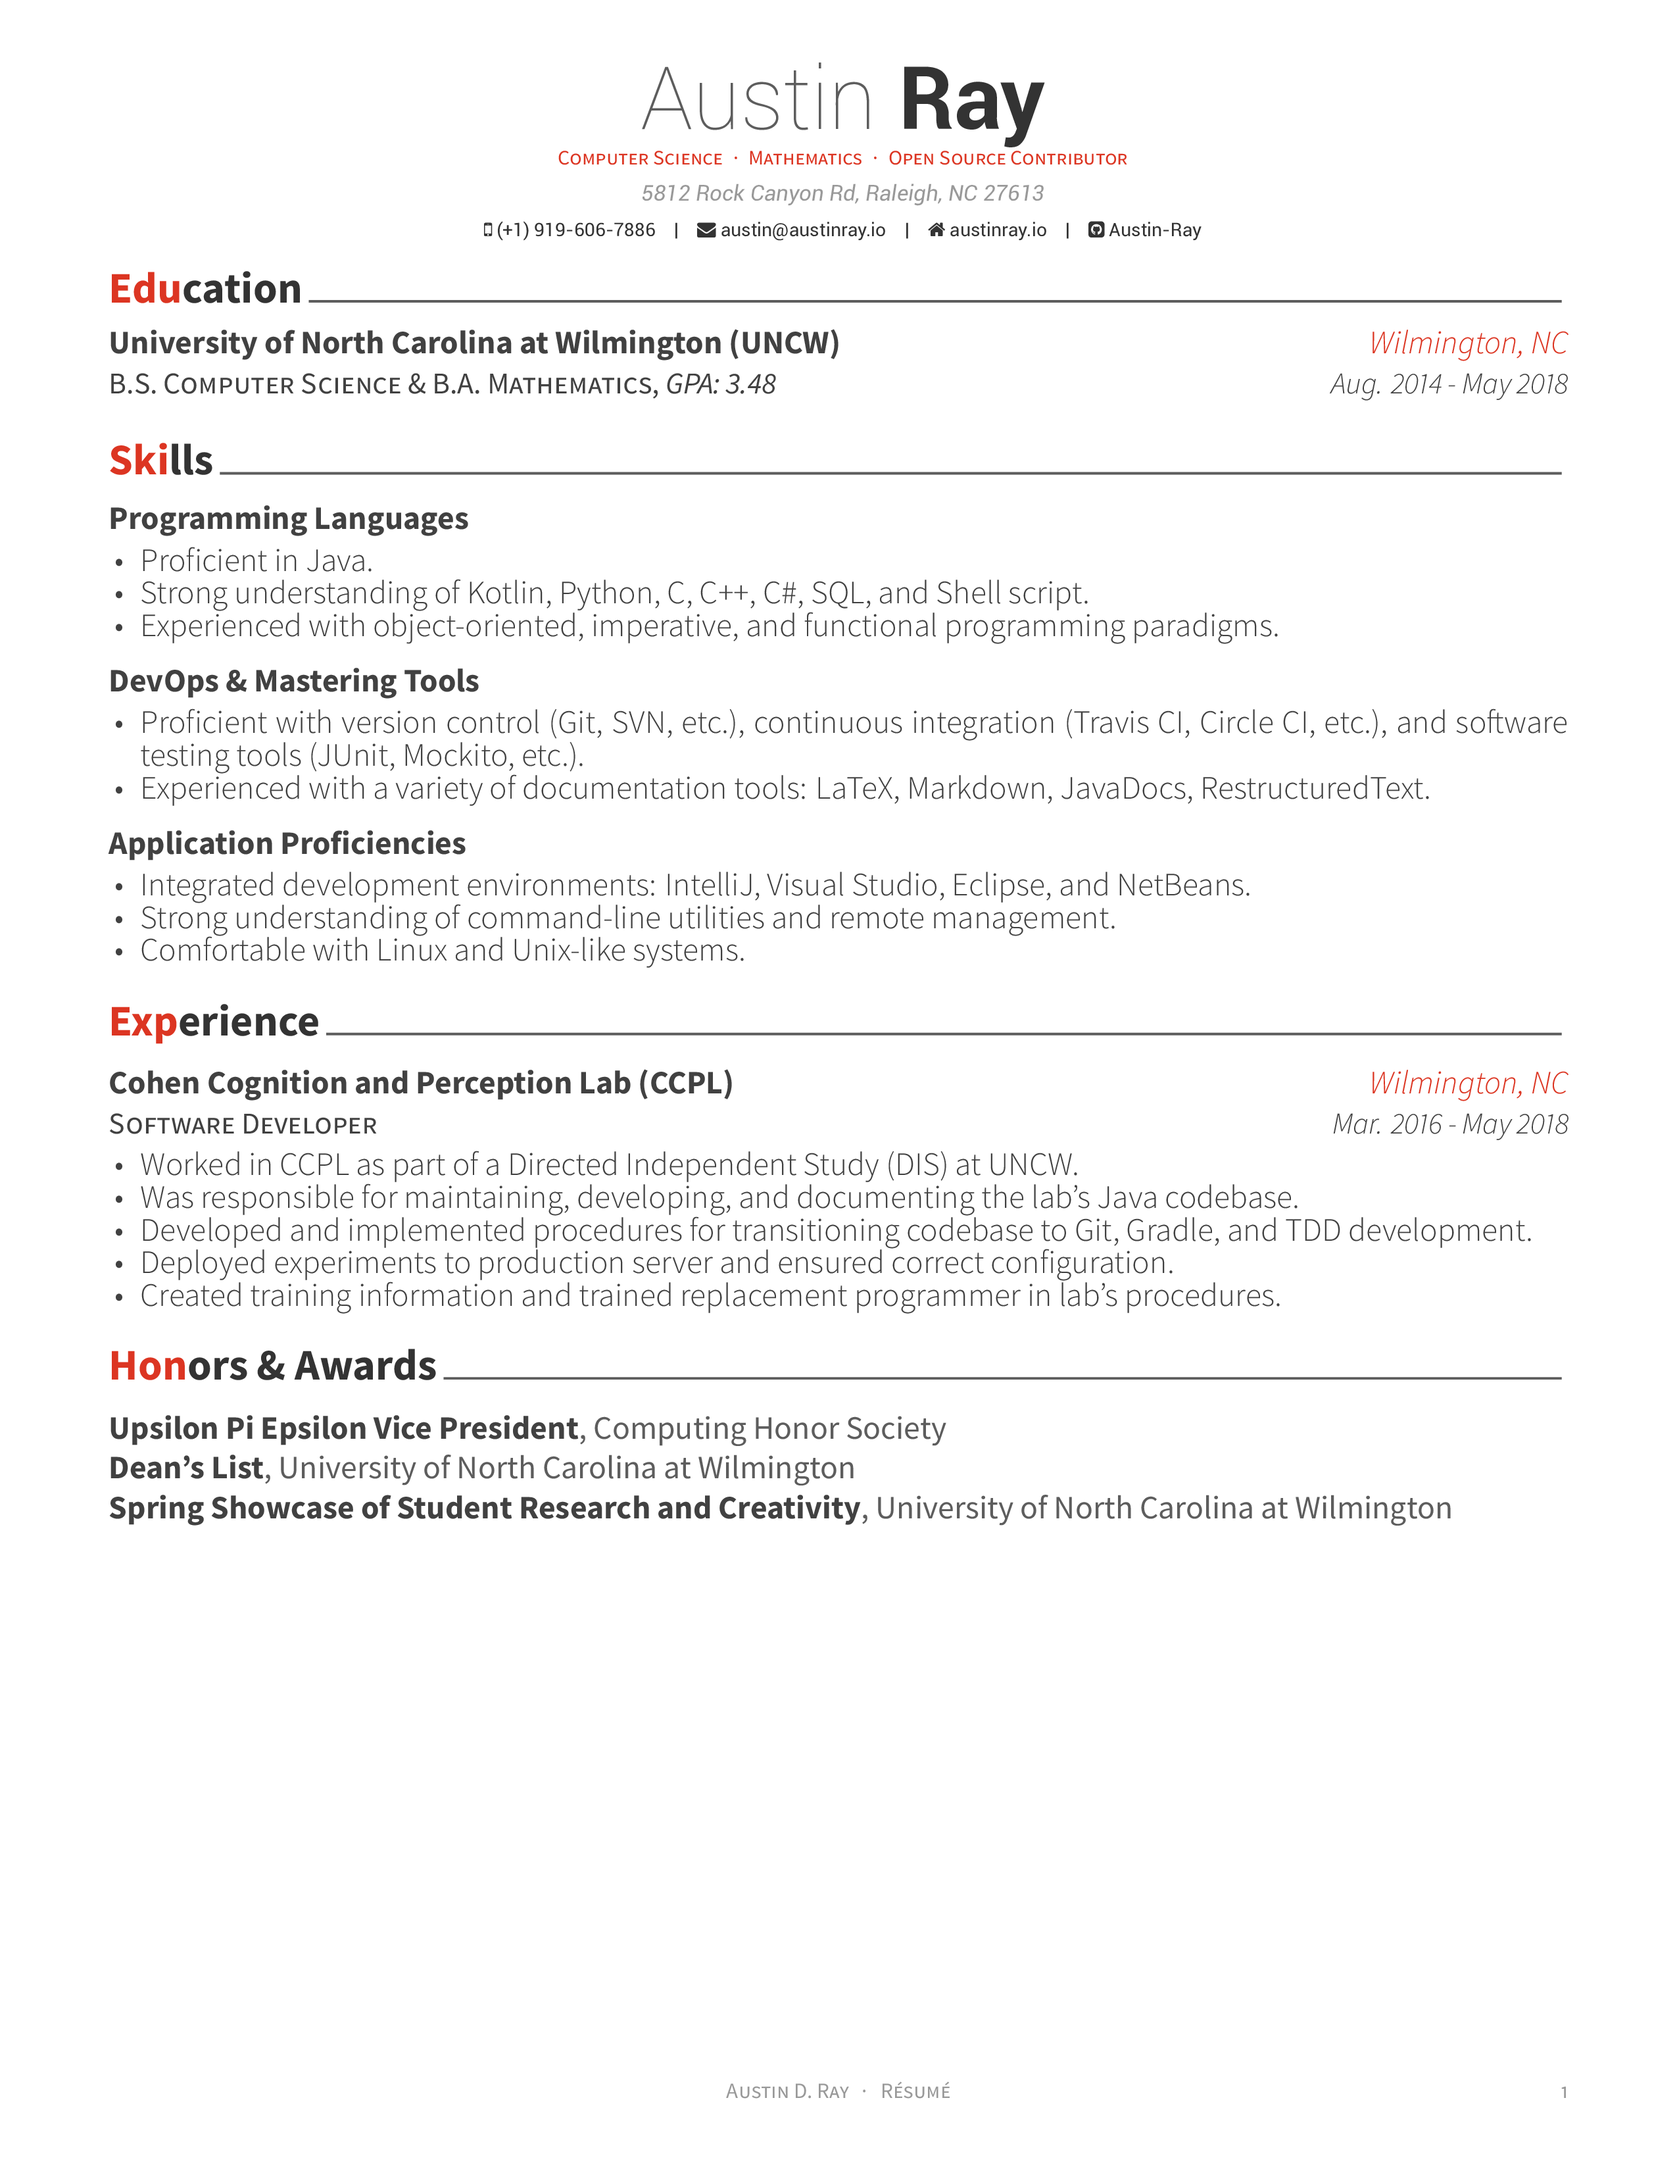
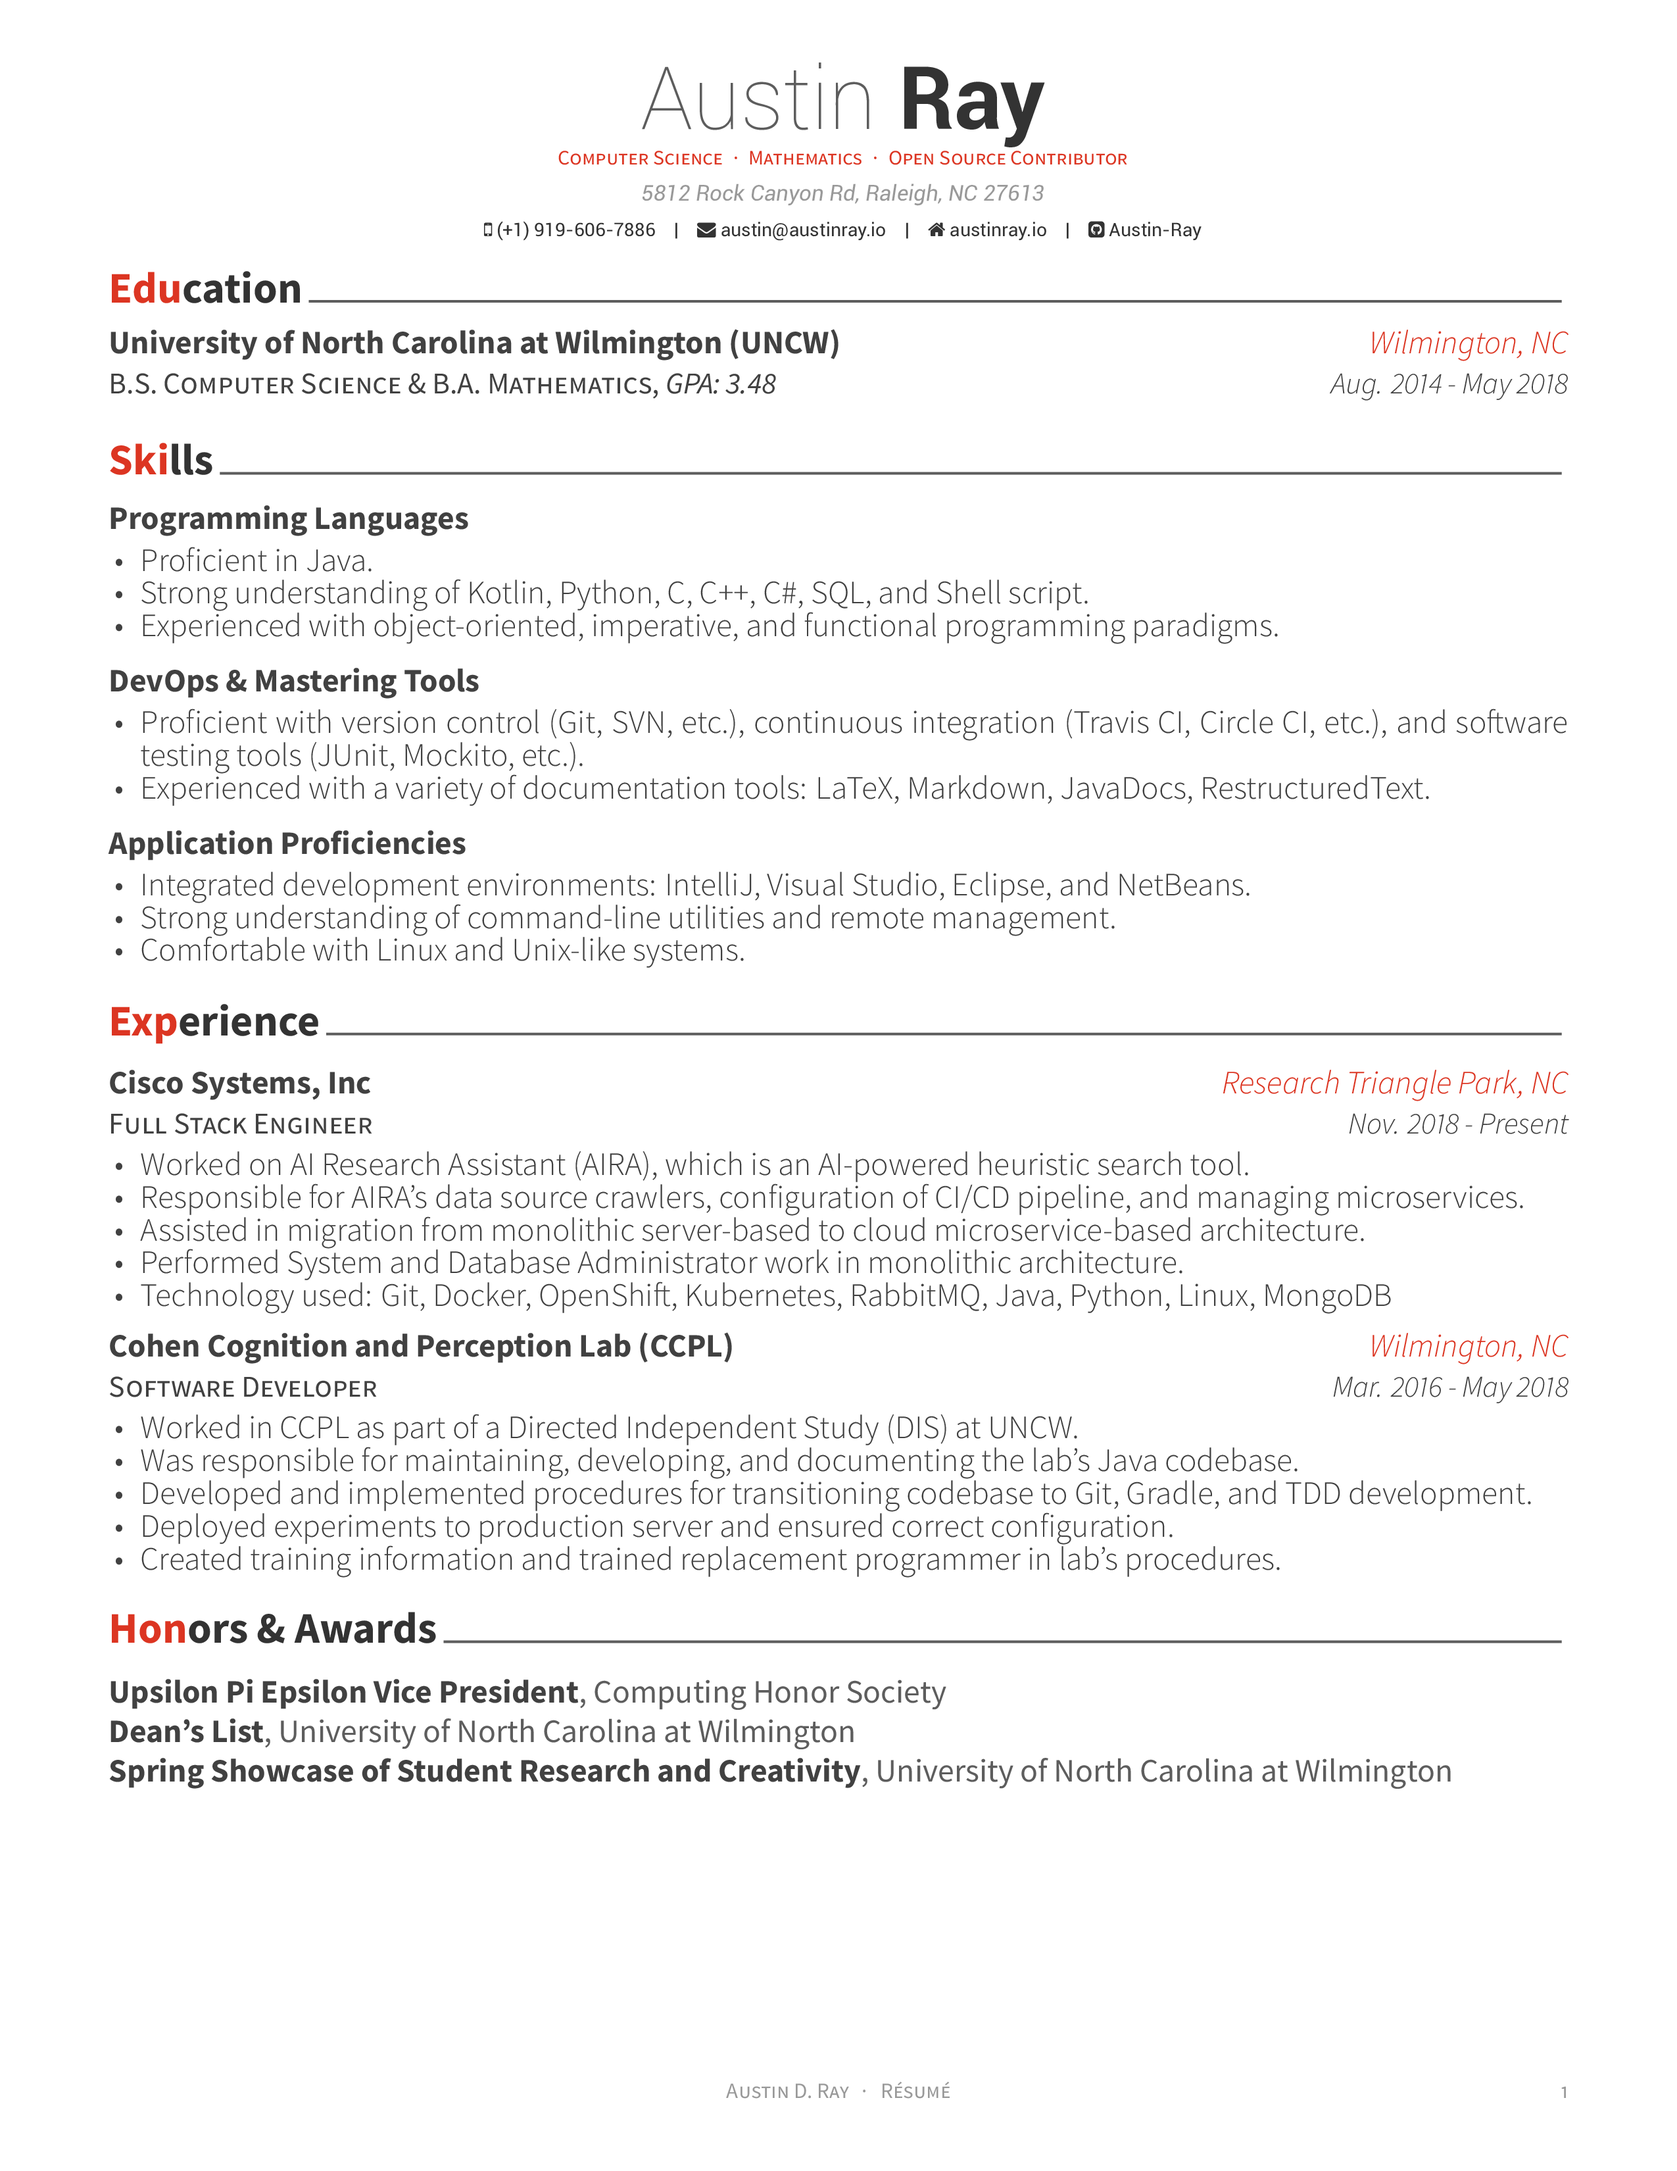
feat(experience): add Cisco job listing
Add entry for work performed while at Cisco Systems, Inc.

diff --git a/sections/experience.tex b/sections/experience.tex
@@ -10,6 +10,57 @@
 \begin{cventries}
 %---------------------------------------------------------
   \cventry
+    {Full Stack Engineer} % Job title
+    {Cisco Systems, Inc} % Organization
+    {Research Triangle Park, NC} % Location
+    {Nov. 2018 - Present} % Date(s)
+    {
+      \begin{cvitems}
+      \item {
+          Worked on AI Research Assistant (AIRA), which is an AI-powered
+          heuristic search tool.
+        }
+      \item {
+          Responsible for AIRA's data source crawlers, configuration of CI/CD
+          pipeline, and managing microservices.
+        }
+      \item {
+          Assisted in migration from monolithic server-based to cloud
+          microservice-based architecture.
+        }
+      \item {
+          Performed System and Database Administrator work in monolithic
+          architecture.
+        }
+      \item {
+          Technology used: Git, Docker, OpenShift, Kubernetes, RabbitMQ, Java,
+          Python, Linux, MongoDB
+        }
+      \end{cvitems}
+    }
+%---------------------------------------------------------
+%  \cventry
+%    {Open Source Maintainer} % Job title
+%    {Neomutt} % Organization
+%    {} % Location
+%    {Oct. 2018 - Present} % Date(s)
+%    {
+%      \begin{cvitems}
+%      \item {
+%          Maintainer for the open-source command-line email client Neomutt. Neomutt
+%          is a fork of Mutt with the goal of improved code quality and inclusion of
+%          popular features.
+%        }
+%      \item {
+%          Area of focus: integration of the Notmuch mail indexer.
+%        }
+%      \item {
+%          Technology used: C, Notmuch, Git
+%        }
+%      \end{cvitems}
+%    }
+%---------------------------------------------------------
+  \cventry
     {Software Developer} % Job title
     {Cohen Cognition and Perception Lab (CCPL)} % Organization
     {Wilmington, NC} % Location
